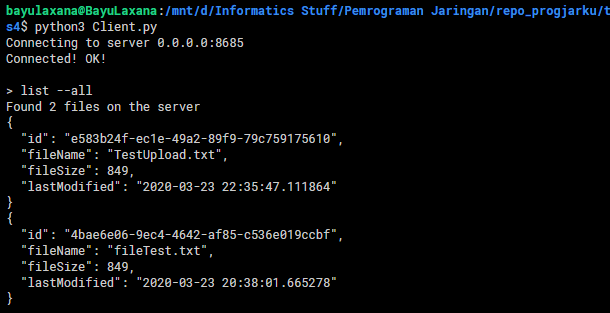
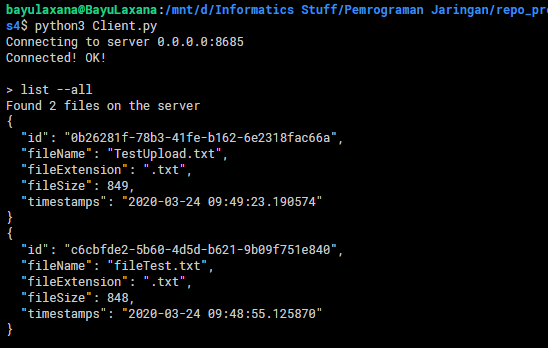
updated README, refactor code, and almost done

diff --git a/tugas4/FileHandler.py b/tugas4/FileHandler.py
@@ -1,7 +1,7 @@
-from FileDBHandler import *
 import json
 import logging
 import os
+from FileDBHandler import FileDBHandler
 
 DB = FileDBHandler()
 class FileHandler:
@@ -28,6 +28,8 @@ class FileHandler:
                 DB.update(filename)
             # response
             resp += f"File \"{filename}\" successfully uploaded\n"
+            resp += "Detailed information:\n"
+            resp += json.dumps(DB.get(filename), indent=2) + "\n"
         except:
             # case when file not found
             resp += f"File \"{filename}\" not found\n"
@@ -46,12 +48,8 @@ class FileHandler:
         if DB.exist(filename) == False:
             return f"Cannot find \"{filename}\" on the server\n"
         else:
-            files = DB.getAll()
-            resp = ""
-            for x in files:
-                if x["fileName"] == filename:
-                    resp += json.dumps(x, indent=2) + "\n"
-                    break
+            files = DB.get(filename)
+            resp = json.dumps(files, indent=2) + "\n"
             return resp
 
     def downloadFile(self, filename: str):
@@ -66,6 +64,8 @@ class FileHandler:
                     buff = f.read()
             fileDest.close()
             resp += f"File \"{filename}\" successfully downloaded\n"
+            resp += "Detailed information:\n"
+            resp += json.dumps(DB.get(filename), indent=2) + "\n"
         except:
             # case when file not found
             resp += f"Cannot find \"{filename}\" on the server\n"
@@ -109,3 +109,8 @@ class CommandExecutor:
         elif cmd == "download":
             resp = self.download(cmdSplit[1], cmdSplit[2])
             return resp
+
+if __name__ == "__main__":
+    x = FileHandler()
+    z = x.getFile("fileTest.txt")
+    print(z)

diff --git a/tugas4/FileDBHandler.py b/tugas4/FileDBHandler.py
@@ -8,10 +8,6 @@ from datetime import datetime
 
 # definitions of class File
 class FileDBHandler:
-    
-    # Constructor
-    ## it creates databases for storing attributes
-    ## of files
     def __init__(self):
         self.database = shelve.open("database/db.dat", writeback=True)
 
@@ -24,14 +20,16 @@ class FileDBHandler:
             return False
 
         fileID = str( uuid.uuid4() )
-        fileName = filename
+        fileNameWExt, fileExt = os.path.splitext(filename)
+        fileName = fileNameWExt + fileExt
         timestamp = datetime.now()
         fileSize = os.path.getsize(filename)
         fixedData = {
             "id": str(fileID),
             "fileName": fileName,
+            "fileExtension": fileExt,
             "fileSize": fileSize,
-            "lastModified": str(timestamp)
+            "timestamps": str(timestamp)
         }
 
         self.database[fileID] = fixedData
@@ -48,9 +46,14 @@ class FileDBHandler:
         timestamp = datetime.now()
         for i in self.database.keys():
             if self.database[i]["fileName"] == filename:
-                self.database[i]["lastModified"] = str(timestamp)
+                self.database[i]["timestamps"] = str(timestamp)
                 break
 
     def getAll(self):
         ret = [ self.database[i] for i in self.database.keys() ]
         return ret
+    
+    def get(self, filename: str):
+        for i in self.database.keys():
+            if self.database[i]["fileName"] == filename:
+                return self.database[i]

diff --git a/tugas4/Client.py b/tugas4/Client.py
@@ -31,8 +31,6 @@ if __name__ == "__main__":
         if cmd == "exit" or cmd == "quit":
             sock.send(cmdInput.encode())
             break
-        elif cmd == "help":
-            pass
         else:
             if cmd == "download":
                 print("Downloading file...")

diff --git a/tugas4/README.md b/tugas4/README.md
@@ -96,14 +96,11 @@ Kemudian untuk file yang di-upload akan dicatat beberapa informasi dalam bentuk 
 
 - `id`- dari file yang di-upload.
 - Nama File
+- Ekstensi File
 - Ukuran File (dalam byte)
 - Timestamp
 
 ## Daftar Fitur
-
-**[PENTING] Mekanisme clientnya adalah :**
-1. **Setiap fitur tidak dipisahkan ke client terpisah.**
-2. **Semua fitur dikerjakan oleh satu client menggunakan Command-Line Interface**
 
 Fitur-fitur yang tersedia dalam program ini adalah:
 
@@ -201,14 +198,146 @@ Cara/detail untuk melakukan request pada masing-masing fitur adalah sebagai beri
 
     ![](img/server4.png)
 
-- Melihat List File
+- ### Melihat List File
 
-    list all
+    Perintah: **`list`**<br>
+    Argumen: **`--all`** atau **`--name`**<br>
+    Value: nama file yang hendak didownload jika menggunakan argumen `--name`
 
-    ![](img/listAll.png)
+    ```
+    > list --all
+    > list --name [fileName]
+    ```
 
-    ![](img/listName.png)
+    + Contoh `list -all`
 
-    log
+        Perintah `list --all` akan menampilkan respon dari server berupa JSON yang berisi informasi dari semua file yang berada pada `fileserver`.
 
-    ![](img/server5.png)
+        ```
+        > list --all
+        ```
+
+        ![](img/listAll.png)
+
+    + Contoh `list --name [fileName]`
+
+        Perintah `list --name [fileName]` akan menampilkan respon dari server berupa JSON yang berisi informasi dari nama file yang dinginkan dari folder `fileserver`.
+
+        ```
+        > list --name fileTest.txt
+        ```
+
+        ![](img/listName.png)
+
+## Respon yang didapat Client
+
+Client akan memperoleh respon dari server sesuai dengan perintah yang dikirimkan. **Semua respon diterima oleh client dalam bentuk JSON (Javascript Object Notation)**.
+
+- ### Meletakkan File
+
+    Respon yang didapatkan client setelah upload berupa file response text dan detail informasi file yang telah diupload **dalam bentuk JSON**.
+
+    ![](img/upload_response.png)
+
+- ### Mengambil File
+
+    Respon yang didapatkan client setelah download file berupa response text dan detail informasi file yang telah didownload **dalam bentuk JSON**.
+
+    ![](img/download_response.png)
+
+- ### Melihat List File
+
+    Respon yang didapatkan client pada fitur ini, tergantung argumen yang dikirimkan ke server. Terdapat dua argumen, yakni `--all` atau `--name [fileName]`. Masing-masing respon **berupa JSON** yang berisi detail informasi file.
+
+    + `list --all`
+
+        ![](img/listAll.png)
+
+    + `list --name [fileName]`
+
+        ![](img/listName.png)
+
+## Client Untuk Melakukan Operasi
+
+- [**Program Client.py dapat dilihat disini >**](Client.py)
+- [**Program untuk menangani request client >**](Server.py)
+
+Seluruh operasi tersebut tidak dilakukan terpisah pada client tersendiri, melainkan menggunakan metode **Command-Line Interface pada satu client**. Mekanismenya adalah:
+
+1. Client mengirimkan string request ke server.
+
+    ```py
+    # Client.py
+
+    while True:
+        cmdInput = input("> ")
+        cmdSplit = cmdInput.split(" ")
+        cmd = cmdSplit[0]
+        
+        if cmd == "exit" or cmd == "quit":
+            sock.send(cmdInput.encode())
+            break
+        else:
+            if cmd == "download":
+                print("Downloading file...")
+            sock.send(cmdInput.encode())
+    ```
+
+2. Server akan menggunakan thread untuk memproses request dari client. Request akan dilimpahkan ke `ClientHandler`.
+
+    ```py
+    # Server.py
+
+    class ClientHandler(threading.Thread):
+    def __init__(self, connection, addr):
+        self.connection = connection
+        self.clientAddr = addr
+        threading.Thread.__init__(self)
+
+    def run(self):
+        while True:
+            data = self.connection.recv(1024)
+            comm = data.decode("utf-8")
+            if comm == "exit" or comm == "quit":
+                break
+            else:
+                print(f">> Received \"{comm}\" from {self.clientAddr}")
+                response = commExe.execute(comm)
+                self.connection.send(response.encode())
+        
+        print(f"Connection from {self.clientAddr} closed")
+        self.connection.close()
+    ```
+
+3. `ClientHandler` menggunakan `CommandExcecutor` untuk mengeksekusi request dari client.
+
+    ```py
+    # FileHandler.py
+
+    # Class CommandExecutor:
+    #
+    #
+    def execute(self, cmdInput: str):
+        cmdSplit = cmdInput.split(" ")
+        cmd = cmdSplit[0]
+
+        if self.checkCommand(cmd) == False:
+            return "Error, unrecognized command\n"
+
+        if cmd == "upload":
+            resp = self.upload(cmdSplit[1], cmdSplit[2])
+            return resp
+        elif cmd == "list":
+            if cmdSplit[1] == "--all":
+                return self.list(cmdSplit[1])
+            else:
+                return self.list(cmdSplit[1], cmdSplit[2])
+        elif cmd == "download":
+            resp = self.download(cmdSplit[1], cmdSplit[2])
+            return resp
+    ```
+
+4. Sisanya akan dilakukan oleh `FileHandler.py` dan `FileDBHandler.py` untuk proses backend.
+
+5. `ClientHandler` akan mengembalikan respon ke client setelah perintah dijalankan.
+    
